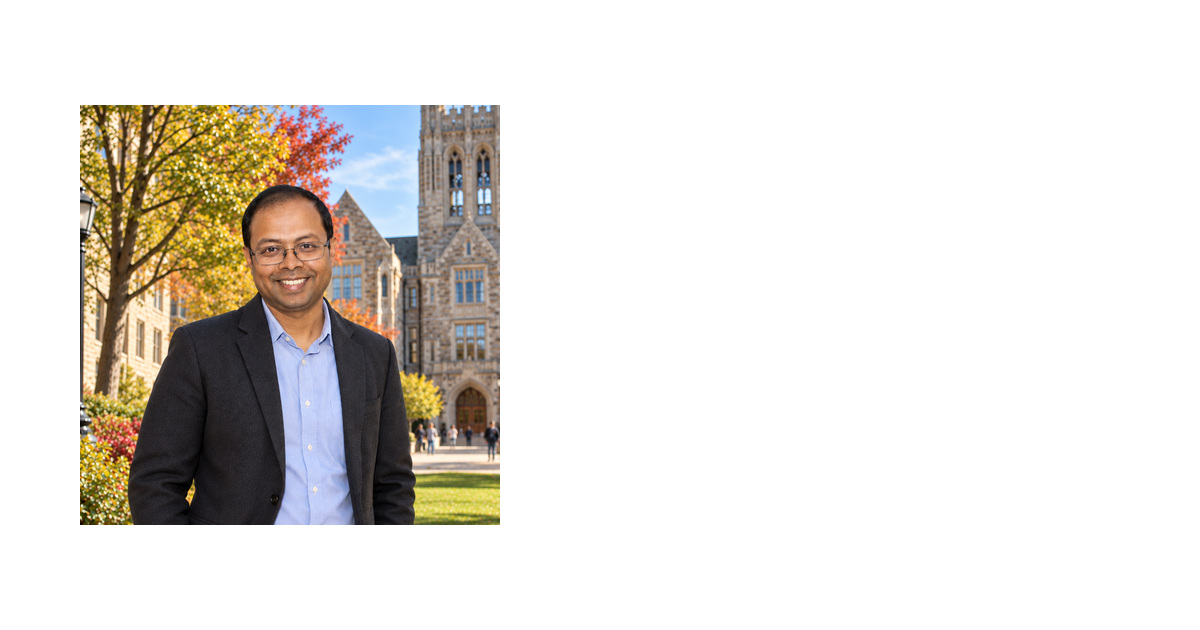
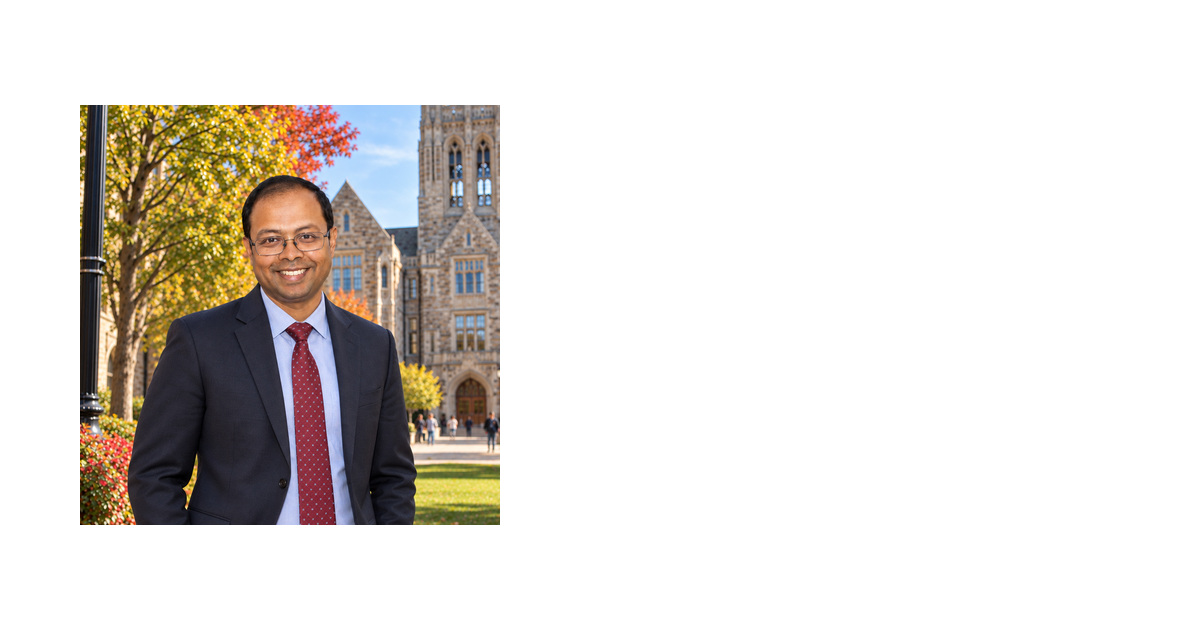
Headshot: switch to BC_profile_pic5

Changed region(s): [[0.0617, 0.1508, 0.4317, 0.8444]]

diff --git a/index.html b/index.html
@@ -10,7 +10,7 @@ description: "Pallab Ghosh is an Associate Professor of Economics at the Univers
 {% assign npubs = published | size | plus: commentary.size %}
 <section class="hero">
   <div class="hero-photo">
-    <img src="{{ site.author.photo | relative_url }}?v=20261011b" alt="Portrait of Pallab Ghosh" width="900" height="900" fetchpriority="high">
+    <img src="{{ site.author.photo | relative_url }}?v=20261011c" alt="Portrait of Pallab Ghosh" width="900" height="900" fetchpriority="high">
   </div>
   <div class="hero-text">
     <h1>{{ site.author.name }}</h1>
